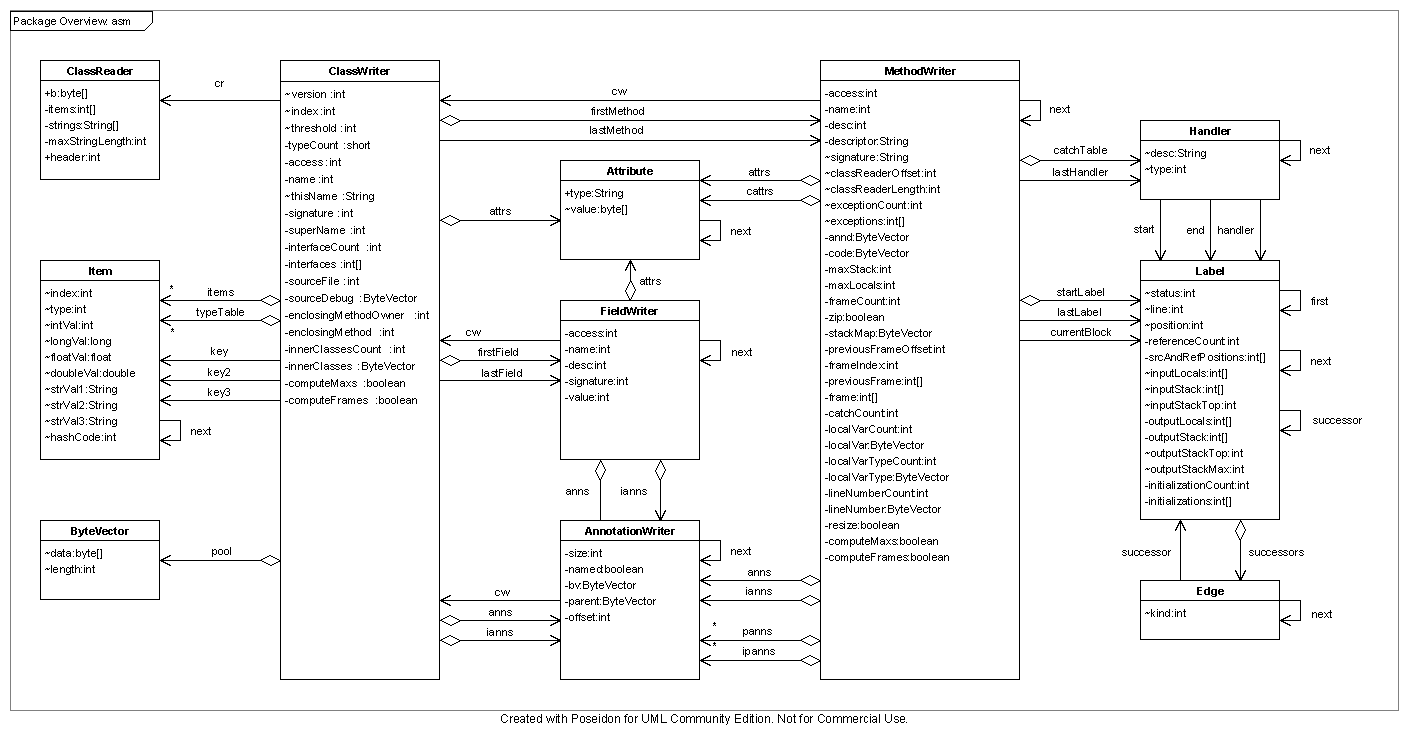
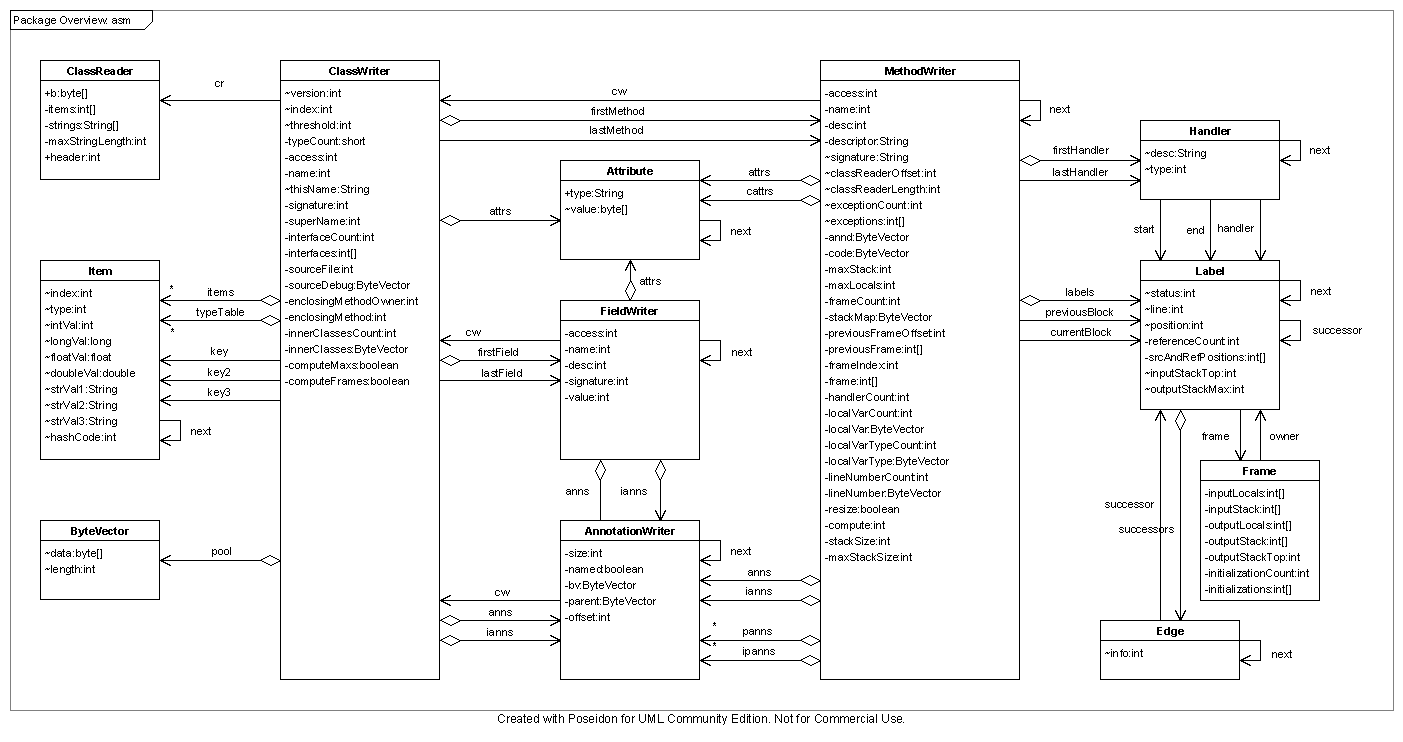
updated developer guide

diff --git a/web/html/doc/developer-guide-body.html b/web/html/doc/developer-guide-body.html
@@ -114,7 +114,7 @@ possible to run the tests with the unoptimized ASM classes, with <b><code>ant
 
 <h3>2.4 Running examples</h3>
 
-<p>Examples can be run by building a binary distribution (see 
+<p>Examples can be run by building a binary distribution (see
 <a href="#dist">next section</a>), and then by running each example from its
 directory in this generated distribution. But there is an easier way, that does
 not require to create a binary distribution. In fact the <i>example</i> example
@@ -199,16 +199,16 @@ representation - namely a byte array - to a high level one or vice versa). The
 <code>signature</code> package is also quite simple (it consists in a parser and
 a pretty printer for a small grammar). In fact the only packages that are not
 completely trivial, except the core package, are the <code>commons</code> and
-<code>tree.analysis</code> packages. But the algorithms used in 
-<code>tree.analysis</code> package are similar to the one explained in section 
+<code>tree.analysis</code> packages. But the algorithms used in
+<code>tree.analysis</code> package are similar to the one explained in section
 <a href="#controlflow">3.5</a>. This explains why this guide is focused on
 the core package only.</p>
 
 <h3>3.2 Main data structures</h3>
 
-<p>The core package is made of 19 classes and interfaces. If we exclude the 5
+<p>The core package is made of 20 classes and interfaces. If we exclude the 5
 interfaces and the 3 utility classes (<code>ClassAdapter</code>,
-<code>MethodAdapter</code> and <code>Type</code>), this leaves only 11 classes,
+<code>MethodAdapter</code> and <code>Type</code>), this leaves only 12 classes,
 which are depicted on the figure below.</p>
 
 <br/>
@@ -264,6 +264,8 @@ end of the try block, and the start of the catch block.</li>
 <li>the <code>Label</code> class is used to reference instructions, but also to
 represent basic blocks, which are used for the automatic computation of the
 maximum stack size and of the stack map frame table of a method.</li>
+<li>the <code>Frame</code> class is used for the automatic computation of the
+stack map frame table of a method.</li>
 <li>the <code>Edge</code> class is used to represent the control flow graph of a
 method, which is a graph of basic blocks, i.e. of <code>Label</code> objects. An
 <code>Edge</code> is an edge between two <code>Label</code> objects in this
@@ -335,17 +337,12 @@ time, they have several distinct fields that encode these data structures:</p>
 <li>the <code>successor</code> field is used to encode the list of labels of a
 method, in the order they are visited.</li>
 <li>the <code>next</code> field is used to encode the list of "changed" basic
-blocks that is used in <code>visitMaxs</code> (see 
+blocks that is used in <code>visitMaxs</code> (see
 <a href="#fixpoint">section 3.5.1</a>).</li>
 <li>the <code>successors</code> field is used to store the list of
 <code>Edge</code> objects that represent the control flow graph data
 structure.</li>
 </ul>
-
-<p>In addition to these fields, the <code>first</code> field is used to
-reference the first label in a series of successive labels (successive labels
-designate the same instruction and therefore the same basic block. In this case
-only the first one is used to store the basic block state).</p>
 
 <h3>3.3 Main algorithms</h3>
 
@@ -473,7 +470,7 @@ represented by a simple byte vector). The constant pool can be copied from an
 existing one by passing a <code>ClassReader</code> argument to the
 <code>ClassWriter</code> constructor (see the <code>copyPool</code> method in
 <code>ClassReader</code>). This allows unchanged methods to be detected and
-copied as is from reader to writer, without visiting their content (see 
+copied as is from reader to writer, without visiting their content (see
 <a href="#classreader">section 3.3.1</a>).</p>
 
 <p>The <code>AnnotationWriter</code> and <code>FieldWriter</code> classes are
@@ -517,7 +514,7 @@ instruction is reachable</li>
 <p>Also the <code>visitMaxs</code> method is more complicated due to these
 advanced features. It is indeed here that maxStack, maxLocals and stack map
 frames are computed, based on the control flow graph constructed in the
-<code>visit<i>X</i>Insn</code> methods (see 
+<code>visit<i>X</i>Insn</code> methods (see
 <a href="#controlflow">section 3.5</a> for more details).</p>
 
 <h4>3.3.3 Label</h4>
@@ -633,10 +630,10 @@ and therefore to update an offset value).</li>
 to be resized are not limited to the long forward jump instructions that were
 detected during the visit of the method's bytecode. Indeed resizing an
 instruction may transform a normal jump instruction into a long jump
-instruction, which must then be resized too (see the example in 
+instruction, which must then be resized too (see the example in
 <a href="#resizeexample">section 3.4.3</a>). The first step is therefore
 iterative. If, in an iteration, some new instructions to be resized are found,
-a new iteration is performed. If, on the contrary, no new instructions to be 
+a new iteration is performed. If, on the contrary, no new instructions to be
 resized are found, the algorithm stops (in fact other iterations are necessary,
 due to the padding of <code>TABLESWITCH</code> and <code>LOOKUPSWITCH</code>
 instructions - see the comments in source code for more details).</p>
@@ -1105,15 +1102,15 @@ changing them in the other case. The result is shown below:</p>
 <h3><a name="controlflow"></a>3.5 Control flow analysis algorithm</h3>
 
 <p>This section presents the algorithm used to compute the maximum stack size
-and the stack map frame table of a method. This algorithm is a control and data 
-flow analysis algorithm, based on the decomposition of the method into a 
+and the stack map frame table of a method. This algorithm is a control and data
+flow analysis algorithm, based on the decomposition of the method into a
 <i>control flow graph</i> of <i>basic blocks</i>. A basic block is a sequence of
 instructions where only the first instruction is the target of a jump
 instruction, and where only the last instruction can jump to other basic
 blocks. The control flow graph of a method is the graph whose nodes are the
 basic blocks, and whose edges connect the basic blocks that are linked by jump
 instructions. As an example, the control flow graph of the method defined in
-<a href="#fixpoint">section 3.5.1</a> is the one shown in 
+<a href="#fixpoint">section 3.5.1</a> is the one shown in
 <a href="#install">section 2</a>.</p>
 
 <h4><a name="fixpoint"></a>3.5.1 Basic algorithm</h4>
@@ -1163,8 +1160,9 @@ state of the output frame of each basic block is updated by simulating the
 action of the visited instruction. It is important to note that the algorithm
 works at the basic block level, and not at the instruction level. This means
 that input and output frames are associated to basic blocks, and not to
-individual instructions. In practice, they are associated to <code>Label</code>
-objects, which mark the beginning of basic blocks.</p>
+individual instructions. In practice, they are stored in a <code>Frame</code>
+object that is associated to a <code>Label</code> object, which marks the
+beginning of basic blocks.</p>
 
 <p>The effect of this first step for the above example method is illustrated on
 the table below:</p>
@@ -1287,11 +1285,11 @@ variable 1 before this instruction was executed (hence the [?<b>L1</b>]).</p>
 
 <p>During the second step of the algorithm, which takes place in the <code>
 visitMaxs</code> method, the  input frames of each basic block are computed by
-using an iterative fix point algorithm (i.e. an algorithm to find a fix point 
+using an iterative fix point algorithm (i.e. an algorithm to find a fix point
 <i>x</i> of a function <i>f</i>, defined by <i>f(x)=x</i>. If <i>x</i> values
-define a complete lattice and if <i>f</i> is monotonic, 
-<i>x<sub>n+1</sub>=f(x<sub>n</sub>)</i> converges to the smallest fix point of 
-<i>f</i>, according to the 
+define a complete lattice and if <i>f</i> is monotonic,
+<i>x<sub>n+1</sub>=f(x<sub>n</sub>)</i> converges to the smallest fix point of
+<i>f</i>, according to the
 <a href="http://en.wikipedia.org/wiki/Knaster%E2%80%93Tarski_theorem">Tarski</a>
 theorem. Here <i>x</i> is a control flow graph with input and output frames,
 <i>f</i> is a "merge" function and the order relation is based on the subtyping
@@ -1498,7 +1496,7 @@ a <code>NOP</code> but with an instruction without successor, such as
 <p>The first solution is too complicated; the second one is possible, but the
 fact that the dead code block can be reduced to a single byte must be taken
 into account: there is not always enough room to replace it with <code> NOP
-</code> instructions followed by a <code>GOTO</code>, for example. 
+</code> instructions followed by a <code>GOTO</code>, for example.
 <code><i>x</i>RETURN</code> can be used (this is a single byte instruction), but
 this requires adjustements to the method's return type. The <code>ATHROW</code>
 instruction does not have this problem, and is also a single byte instruction.
@@ -1573,9 +1571,9 @@ times for the same constant pool UTF8 item. Another example is in the
 values instead of strings (they were initially stored as strings; the change to
 int values improved performances a lot).</li>
 <li>[R4] avoid array copy operations. Several examples of this principle can be
-seen in the existing implementation. For example the <code>toByteArray</code> 
-method first computes the size of the class, then allocates a 
-<code>ByteVector</code> of this size, and finally writes the class content in 
+seen in the existing implementation. For example the <code>toByteArray</code>
+method first computes the size of the class, then allocates a
+<code>ByteVector</code> of this size, and finally writes the class content in
 this vector. This avoids many calls to the <code>enlarge</code> method in
 <code>ByteVector</code>, and therefore many array copy operations.</li>
 <li>[R5] avoid getter and setter methods, at least for non public or protected
@@ -1585,10 +1583,10 @@ package does not use any such method. The tree package also exposes many fields
 directly.</li>
 <li>[R6] copy frequently accessed instance fields to local variables to reduce
 field access operations (this is the logical continuation of the previous
-technique). See for example the <code>ByteVector</code> class: the 
+technique). See for example the <code>ByteVector</code> class: the
 <code>length</code> and <code>data</code> fields are copied into local variables
 in methods that access them several times. A variant of this rule is to replace
-fields with method parameters (this variant was used in the 
+fields with method parameters (this variant was used in the
 <code>signature</code> package - see
 <a href="#optimizeexample">section 4.3</a>).</li>
 <li>[R7] cache the result of complex functions in order to execute them only
@@ -1601,7 +1599,7 @@ constant pool item several times.</li>
 <li>[R8] use <code>int</code> coded data structures in order to replace slow
 data structure access methods with fast arithmetic or bitwise operations (this
 also reduces code size). Several examples of this rule can be seen in the
-existing code: the boolean stack encoded as an <code>int</code> in 
+existing code: the boolean stack encoded as an <code>int</code> in
 <code>SignatureWriter</code>, the verification types encoded as <code>int</code>
 in <code>Label</code>, etc.</li>
 <li>[R9] use <code>switch</code> statements that can be compiled into
@@ -1634,8 +1632,8 @@ compromises with what a "clean" object oriented API would be. Whether these
 compromises are worthwhile or not must be decided on a case by case basis.
 Several such compromises can be detected in the current public ASM API. For
 example the <code>AnnotationVisitor</code> interface is used both for
-annotations and annotation arrays although, in the second case, the 
-<code>name</code> argument is useless and would not have been used if an 
+annotations and annotation arrays although, in the second case, the
+<code>name</code> argument is useless and would not have been used if an
 <code>AnnotationArrayVisitor</code> interface were defined. Another example is
 the <code>SignatureVisitor</code> interface: a single interface is used to
 represent a quite complex recursive data structure that, in a "normal" object
@@ -1654,7 +1652,9 @@ to represent the eleven constant pool item types, and the <code>Label </code>
 class is used to represent both bytecode positions and basic blocks. The
 drawback of this approach is that it increases memory requirements (an integer
 <code>Item</code> object, for example, uses 11 fields while an
-<code>IntegerItem</code> class would require only 4 fields).</p>
+<code>IntegerItem</code> class would require only 4 fields) and object
+instantiation times (<code>Label</code> and <code>Frame</code> classes were
+initially merged but have been separated in order to improve performances).</p>
 
 <p>The number of methods can be reduced by inlining methods that are called at
 only one place in the code (a method that is called from several places can
@@ -1672,15 +1672,15 @@ size:</p>
 <li>[R14] use string constant values directly in code, instead of declaring them
 in <code>final static String</code> fields. It saves space by removing field
 declarations.</li>
-<li>[R15] avoid using array initializers like <code>{</code> 
+<li>[R15] avoid using array initializers like <code>{</code>
 <i>value1</i><code>,</code> <i>...</i> <i>valueN</i> <code>}</code>. These
 initializers can be replaced with a loop that initializes each array element
 from a string representation of the whole array. This technique is used in
-<code>ClassWriter</code> and <code>asm.util.AbstractVisitor</code>, for 
+<code>ClassWriter</code> and <code>asm.util.AbstractVisitor</code>, for
 example.</li>
 <li>[R16] some switch instructions can be replaced with an array access. For
 instance a switch that associates A, C or Z to 0, 1 or 3 respectively can be
-replaced with <code>new</code> <code>char[]</code> <code>{</code> 
+replaced with <code>new</code> <code>char[]</code> <code>{</code>
 <code>'A',</code> <code>'C',</code> <code>0,</code> <code>'Z'</code>
 <code>}</code><code>[i]</code>, which can itself be optimized in
 <code>"AC Z".charAt(i)</code> (by using [R15]).</li>
@@ -1807,7 +1807,7 @@ time the average time to parse and rebuild a signature decreased from 74 micro
 seconds at the first step, to 15 micro seconds at the second step, 5.4 micro
 seconds at the fourth step, and less than 5 micro seconds at the last step.</p>
 
-<p>As can be seen from this example (more details can be found on the 
+<p>As can be seen from this example (more details can be found on the
 <a href="http://www.objectweb.org/wws/arc/asm/2005-01/msg00041.html">ASM
 mailing list archives</a> of January 2005), improving performances often leads
 to code size reductions, and vice versa!</p>
